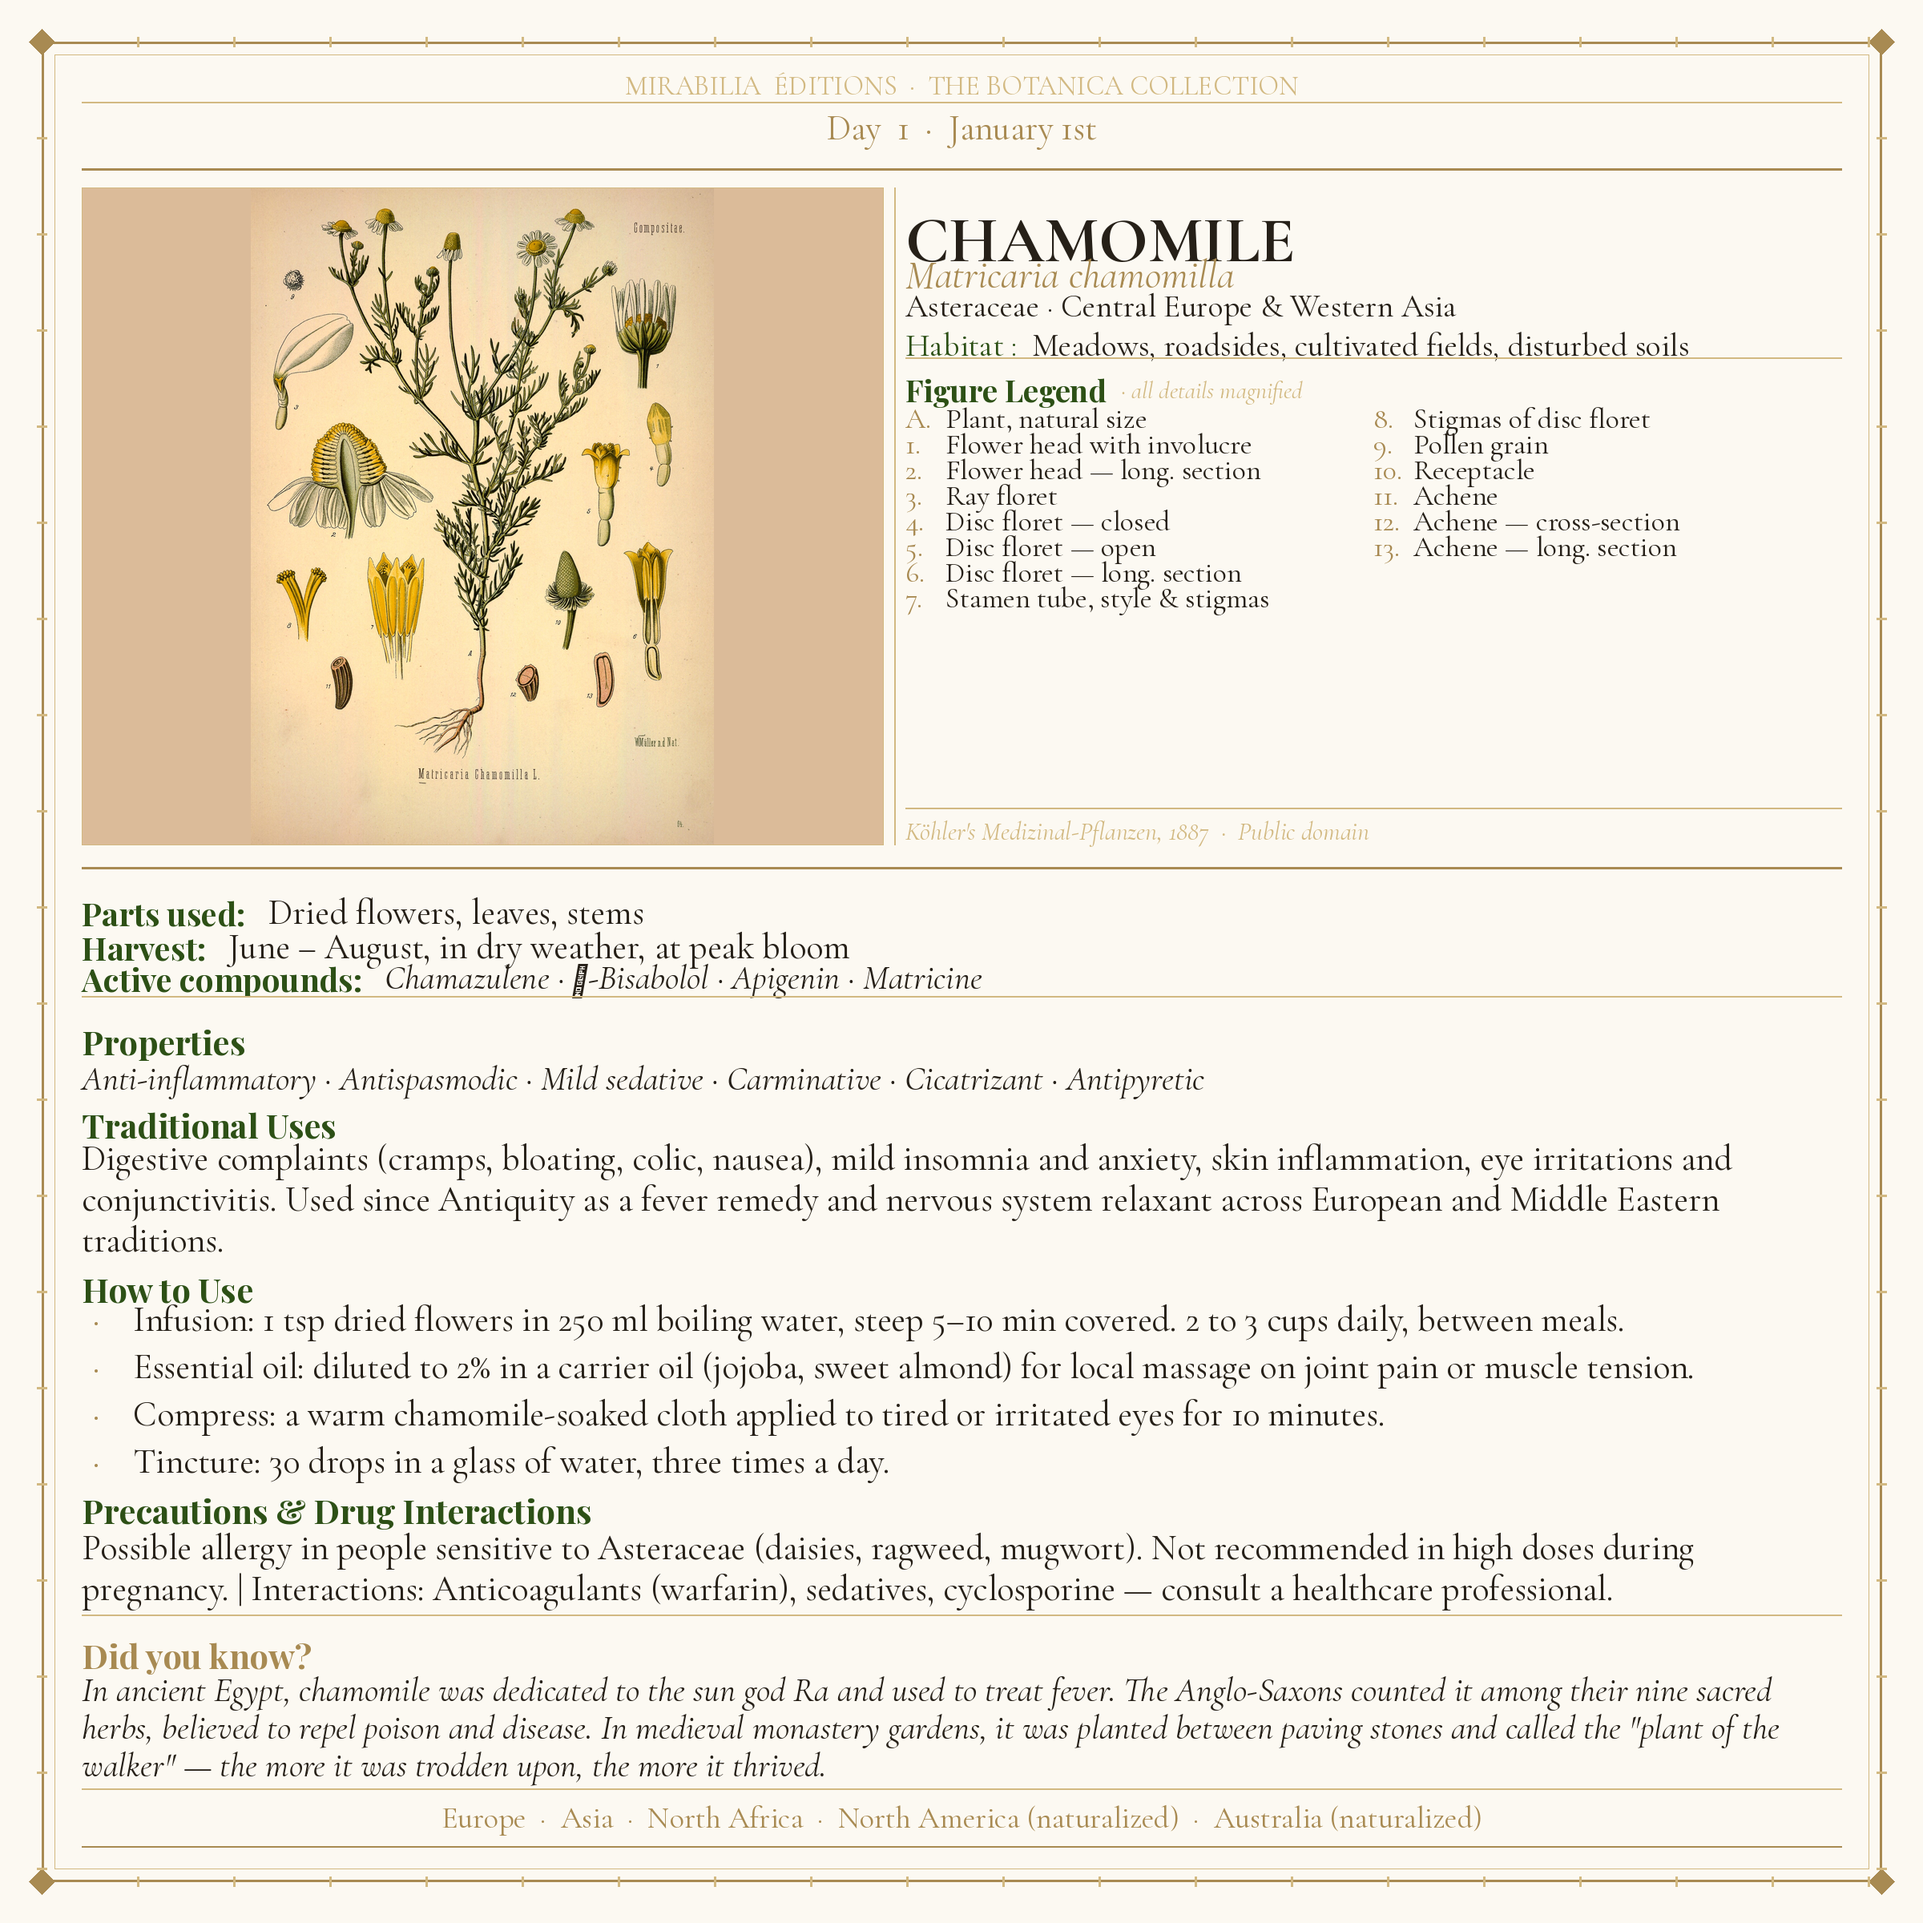
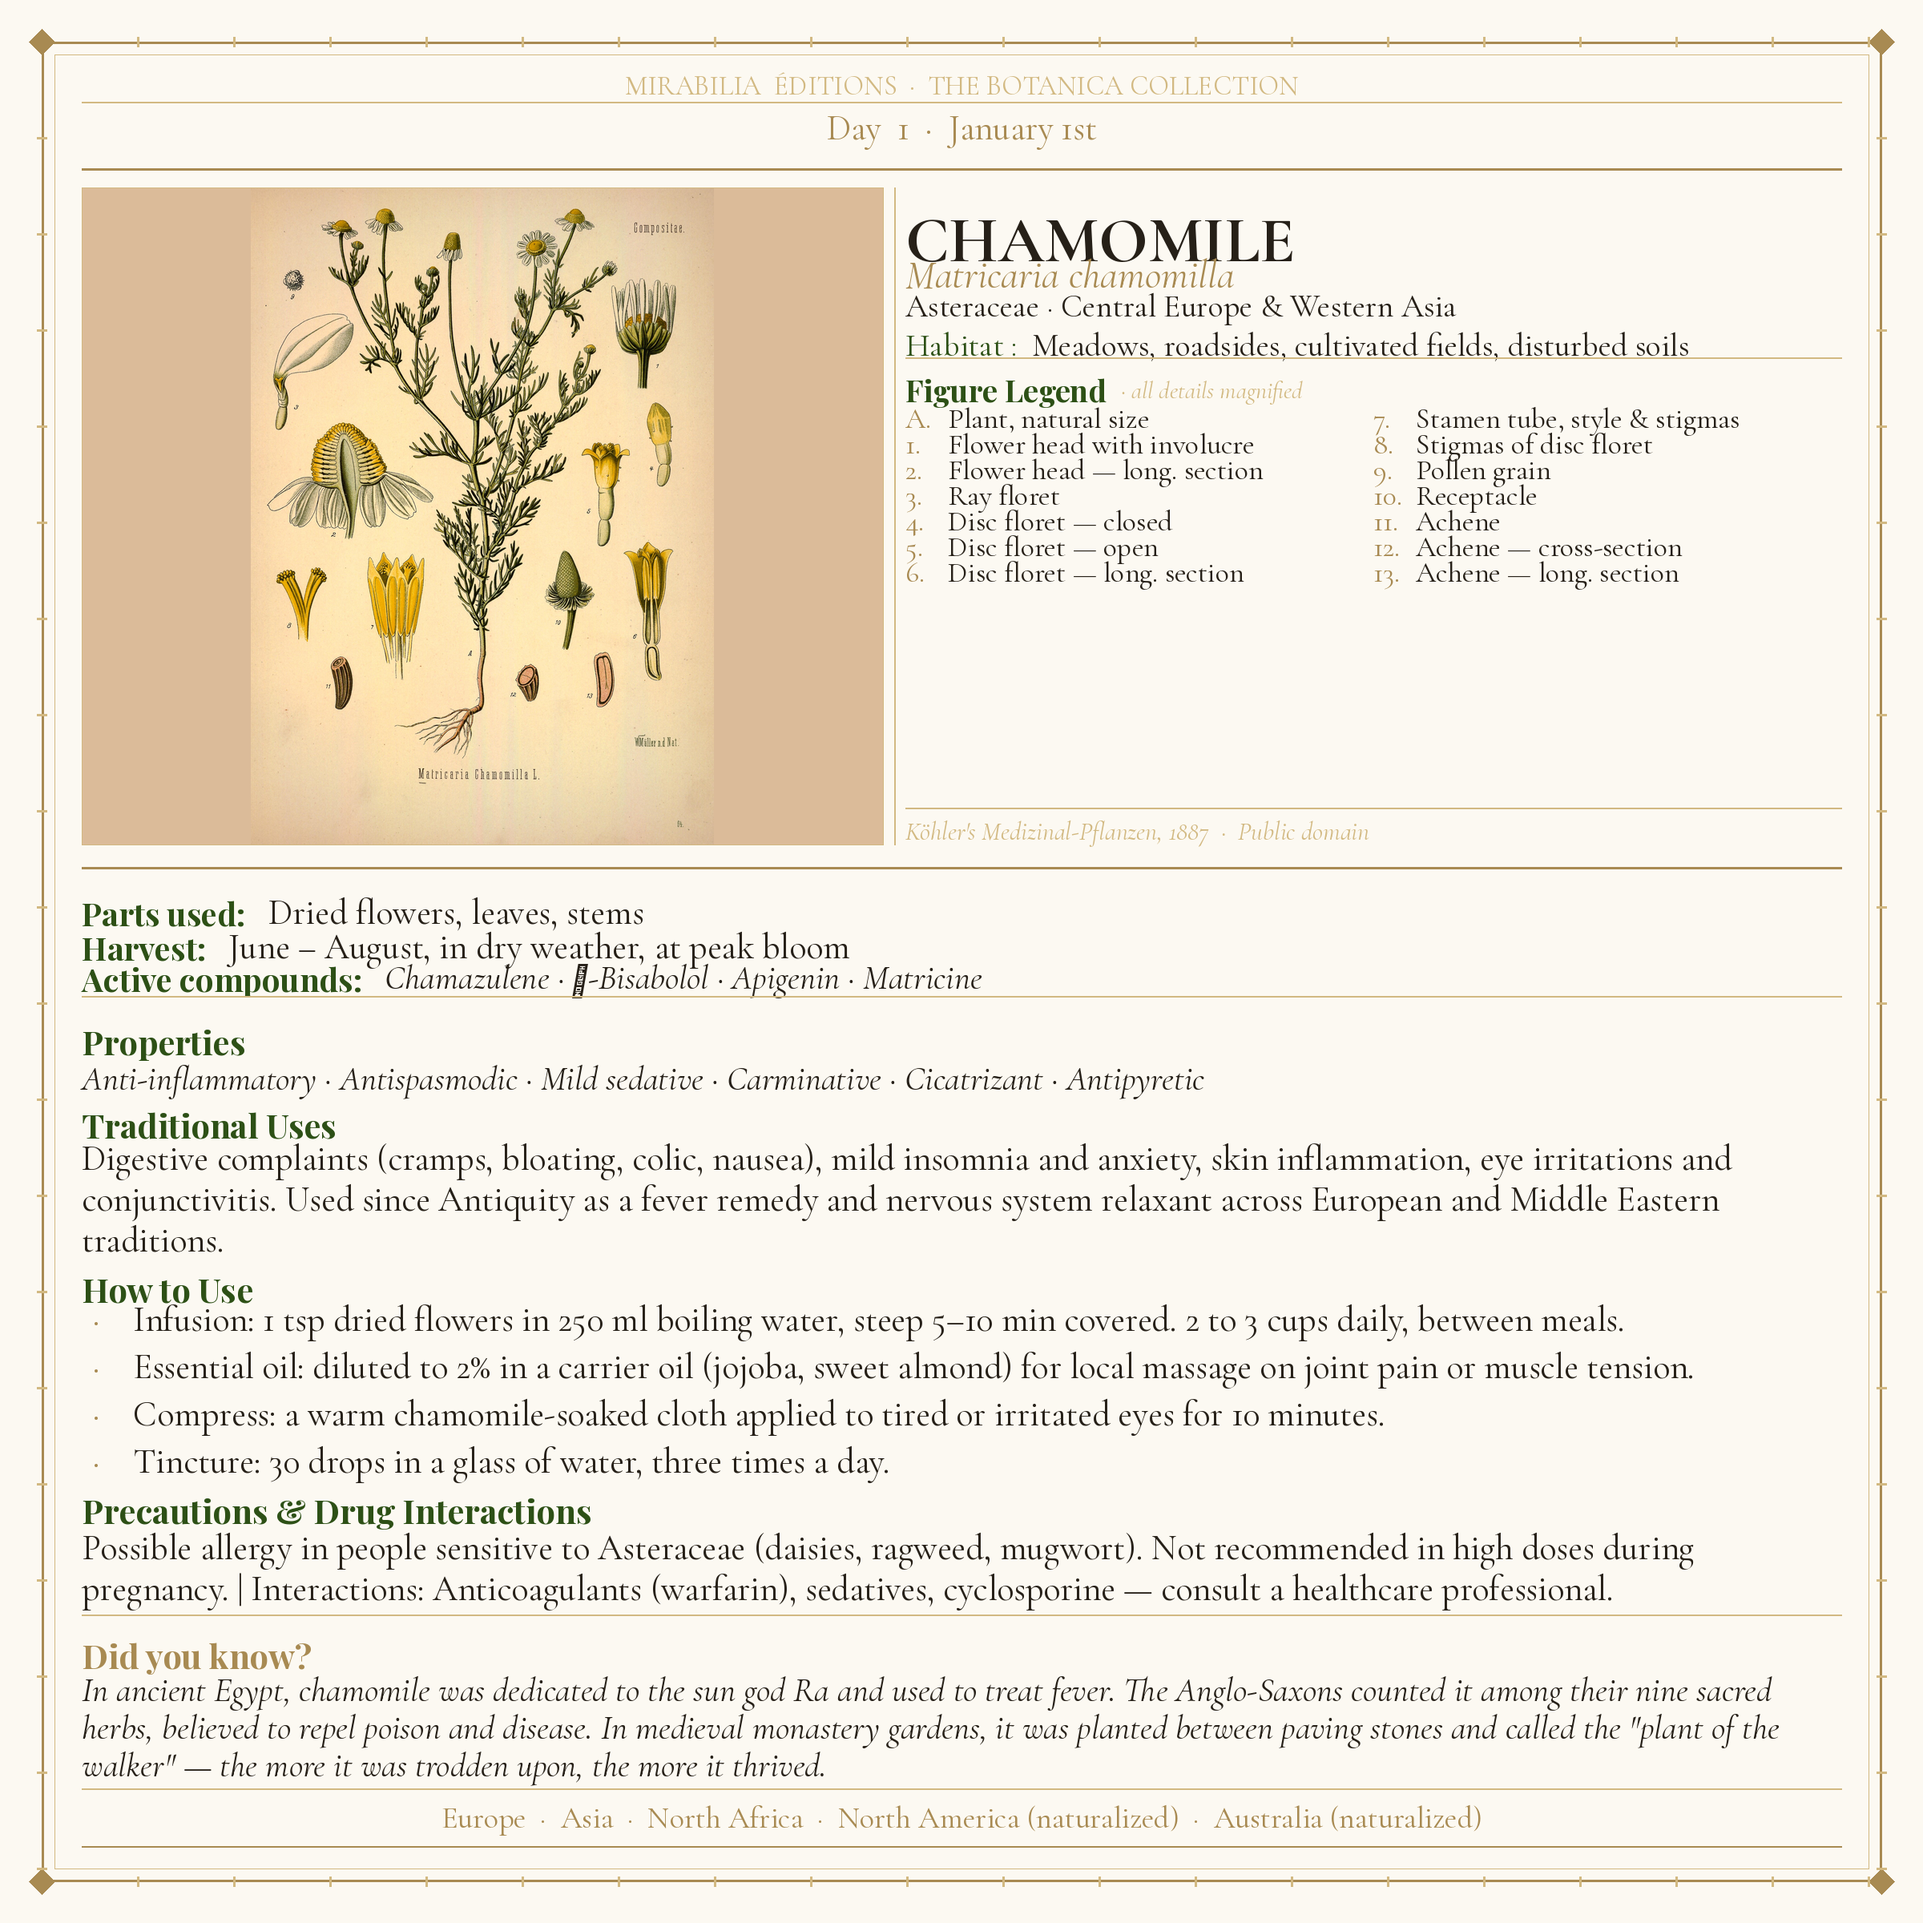
Add Monkshood page + parametric legend system
- Refactor legend_items as a parameter to make_botanica_page()
- Auto-split legend into two mini-columns based on item count
- Extract LEGEND_CHAMOMILE and LEGEND_MONKSHOOD as named constants
- Add Aconitum napellus (Monkshood) page with full plant data and figure legend
- Save as botanica_monkshood.png

https://claude.ai/code/session_018BNd1Ba7eFukj4va47McZo

Changed region(s): [[0.5, 0.2188, 0.6562, 0.3125], [0.7188, 0.2188, 0.8438, 0.3125], [0.8125, 0.2812, 0.875, 0.3125]]

diff --git a/make_botanica_page.py b/make_botanica_page.py
@@ -180,6 +180,7 @@ def make_botanica_page(
     interactions,
     cultural_note,
     regions,
+    legend_items=None,
     illus_main=None,
     out_name="botanica_demo.png"
 ):
@@ -293,27 +294,13 @@ def make_botanica_page(
     d.text((RIGHT_X + lhdr_w, note_y), "· all details magnified", fill=LGOLD, font=fn_lnote)
     ry += text_h("A", fn_lhdr, d) + 12
 
-    # Legend items — exact from Köhler's original (two mini-columns)
-    legend_items = [
-        ("A.",   "Plant, natural size"),
-        ("1.",   "Flower head with involucre"),
-        ("2.",   "Flower head — long. section"),
-        ("3.",   "Ray floret"),
-        ("4.",   "Disc floret — closed"),
-        ("5.",   "Disc floret — open"),
-        ("6.",   "Disc floret — long. section"),
-        ("7.",   "Stamen tube, style & stigmas"),
-        ("8.",   "Stigmas of disc floret"),
-        ("9.",   "Pollen grain"),
-        ("10.",  "Receptacle"),
-        ("11.",  "Achene"),
-        ("12.",  "Achene — cross-section"),
-        ("13.",  "Achene — long. section"),
-    ]
-    num_w  = d.textbbox((0,0), "13.  ", font=fn_litem)[2]
+    # Legend items — passed per plant, two mini-columns
+    if legend_items is None:
+        legend_items = []
+    num_w  = d.textbbox((0,0), "10.  ", font=fn_litem)[2]
     li_h   = text_h("A", fn_litem, d) + 9
     MID_X  = RIGHT_X + RIGHT_W // 2
-    split  = 8   # A + 1-7 in left, 8-13 in right
+    split  = (len(legend_items) + 1) // 2
     left_items  = legend_items[:split]
     right_items = legend_items[split:]
 
@@ -391,7 +378,39 @@ def make_botanica_page(
     img.save(out_name)
 
 
-# ── Demo — Chamomile ──────────────────────────────────────────────────────────
+LEGEND_CHAMOMILE = [
+    ("A.",   "Plant, natural size"),
+    ("1.",   "Flower head with involucre"),
+    ("2.",   "Flower head — long. section"),
+    ("3.",   "Ray floret"),
+    ("4.",   "Disc floret — closed"),
+    ("5.",   "Disc floret — open"),
+    ("6.",   "Disc floret — long. section"),
+    ("7.",   "Stamen tube, style & stigmas"),
+    ("8.",   "Stigmas of disc floret"),
+    ("9.",   "Pollen grain"),
+    ("10.",  "Receptacle"),
+    ("11.",  "Achene"),
+    ("12.",  "Achene — cross-section"),
+    ("13.",  "Achene — long. section"),
+]
+
+LEGEND_MONKSHOOD = [
+    ("A.",   "Flowering stem, natural size"),
+    ("1.",   "Flower — long. section"),
+    ("2.",   "Flower without sepals"),
+    ("3.",   "Stamens"),
+    ("4.",   "Pollen grain, dry"),
+    ("5.",   "Pistil"),
+    ("6.",   "Pistil — long. section"),
+    ("7.",   "Ovary — cross-section"),
+    ("8.",   "Fruit — 3 follicles"),
+    ("9.",   "Seed"),
+    ("10.",  "Seed — cut open"),
+    ("11.",  "Seed — cut open (view 2)"),
+]
+
+# ── Chamomile ─────────────────────────────────────────────────────────────────
 
 make_botanica_page(
     day_num   = 1,
@@ -400,12 +419,10 @@ make_botanica_page(
     name_la   = "Matricaria chamomilla",
     family    = "Asteraceae",
     origin    = "Central Europe & Western Asia",
-
     parts_used       = "Dried flowers, leaves, stems",
     harvest          = "June – August, in dry weather, at peak bloom",
     habitat          = "Meadows, roadsides, cultivated fields, disturbed soils",
     active_compounds = "Chamazulene · α-Bisabolol · Apigenin · Matricine",
-
     properties = (
         "Anti-inflammatory  ·  Antispasmodic  ·  Mild sedative  ·  "
         "Carminative  ·  Cicatrizant  ·  Antipyretic"
@@ -444,6 +461,63 @@ make_botanica_page(
         "Europe  ·  Asia  ·  North Africa  ·  "
         "North America (naturalized)  ·  Australia (naturalized)"
     ),
-    illus_main = "/home/user/Ebook/kohler_main.jpg",
-    out_name   = "/home/user/Ebook/botanica_demo.png",
+    legend_items = LEGEND_CHAMOMILE,
+    illus_main   = "/home/user/Ebook/kohler_main.jpg",
+    out_name     = "/home/user/Ebook/botanica_demo.png",
+)
+
+# ── Monkshood (Aconite) ───────────────────────────────────────────────────────
+
+make_botanica_page(
+    day_num   = 2,
+    date_str  = "January 2nd",
+    name_fr   = "Monkshood",
+    name_la   = "Aconitum napellus",
+    family    = "Ranunculaceae",
+    origin    = "European Alps, Pyrenees, Carpathians",
+    parts_used       = "Root (dried, strictly controlled) — historical use only",
+    harvest          = "Autumn — root at peak potency. Gloves mandatory.",
+    habitat          = "Alpine meadows, mountain stream banks, shaded forest edges",
+    active_compounds = "Aconitine · Mesaconitine · Hypaconitine",
+    properties = (
+        "Analgesic  ·  Anti-neuralgic  ·  Anti-inflammatory  ·  Antipyretic  ·  "
+        "Used exclusively in homeopathic dilutions today"
+    ),
+    traditional_uses = (
+        "One of the most important plants in 19th-century European pharmacopeia. "
+        "Used in controlled doses for neuralgia, rheumatic pain, and fever. "
+        "Traditional Chinese medicine used related species for pain relief. "
+        "Today used almost exclusively in homeopathy for sudden-onset fever, "
+        "shock, anxiety, and the early stage of acute illness."
+    ),
+    how_to_use = [
+        "Homeopathy only: Aconite 6C–30C — indicated for sudden high fever with "
+        "restlessness, panic attacks, fright, or first hours of a cold or flu.",
+        "Historical topical use: diluted tincture applied externally on intact "
+        "skin for rheumatic pain — never on broken skin, never ingested.",
+    ],
+    precautions   = (
+        "EXTREMELY TOXIC — one of the most poisonous plants in Europe. "
+        "Aconitine is lethal in milligram doses; skin contact causes numbness. "
+        "Never handle without gloves. Never prepare any internal remedy at home. "
+        "Included here for historical and educational purposes only."
+    ),
+    interactions  = (
+        "Contraindicated with all medications in any non-homeopathic form. "
+        "Report any accidental contact to Poison Control immediately."
+    ),
+    cultural_note = (
+        "Called the \"queen of poisons\" since Antiquity — Medea used it in Greek "
+        "myth, and Roman law forbade its cultivation near cities. Its hood-shaped "
+        "flowers gave it the name Monkshood. Despite its extreme toxicity, Aconitum "
+        "was listed in every 19th-century European pharmacopeia as an analgesic — "
+        "a testament to the fine line between poison and cure."
+    ),
+    regions = (
+        "European Alps  ·  Pyrenees  ·  Carpathians  ·  "
+        "Caucasus  ·  Central Asia"
+    ),
+    legend_items = LEGEND_MONKSHOOD,
+    illus_main   = "/home/user/Ebook/aconitum_napellus.jpg",
+    out_name     = "/home/user/Ebook/botanica_monkshood.png",
 )
